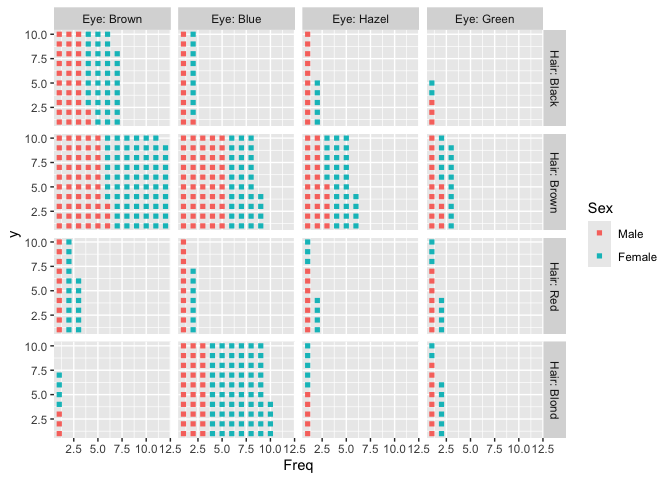
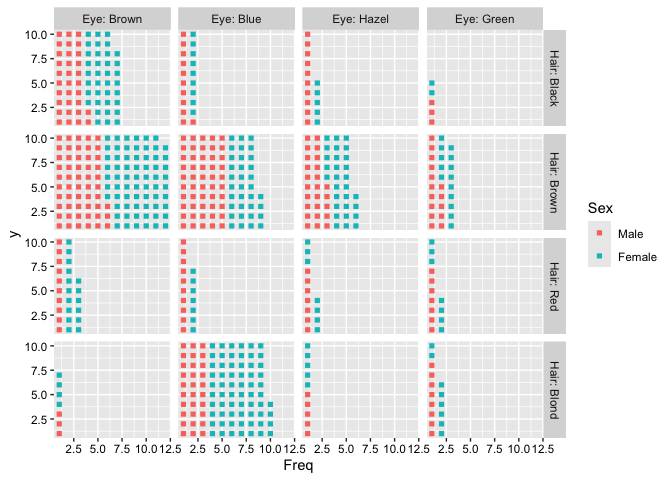
knitr

Changed region(s): [[0.0312, 0.5, 0.0625, 0.5312], [0.0312, 0.2812, 0.0625, 0.3125], [0.0312, 0.0625, 0.0625, 0.0938]]

diff --git a/example/example.md b/example/example.md
@@ -5,6 +5,8 @@ Ko ABE
 
 ## icon array
 
+`stat_countgrid` is used to plot icon array.
+
 ``` r
 library(ggsomestat)
 ```
@@ -15,12 +17,23 @@ library(ggsomestat)
 HEC <- as.data.frame(HairEyeColor)
 ggplot(HEC, aes(x=Freq, colour=Sex))+
   stat_countgrid(shape=15)+
-  facet_grid(Hair~Eye, labeller = label_both)
+  facet_grid(Hair~Eye, labeller = label_both)+
+  ggsomestat:::axis_text_black()
 ```
 
 ![](example_files/figure-gfm/HEC-1.png)<!-- -->
 
+``` r
+ggplot(HEC, aes(x=Freq, fill=Sex))+
+  stat_countgrid(geom="tile", width=0.9, height=0.9)+
+  facet_grid(Hair~Eye, labeller = label_both)
+```
+
+![](example_files/figure-gfm/hectile-1.png)<!-- -->
+
 ## ecdf
+
+`stat_ecdf2`
 
 ``` r
 ggplot(searchConsole, aes(impressions, pagePath)) +
@@ -55,4 +68,35 @@ ggplot(economics, aes(date, unemploy)) +
   stat_ma(colour="royalblue", windowsize=300)
 ```
 
-![](example_files/figure-gfm/ma-1.png)<!-- -->
+![](example_files/figure-gfm/ma-1.png)<!-- --> \## sparkline
+
+draw the parallel line charts
+
+``` r
+ggplot(searchConsole, aes(x = date, y = pagePath, inner_y = clicks)) +
+  stat_sparkline()
+```
+
+    ## Warning: The following aesthetics were dropped during statistical transformation:
+    ## inner_y.
+    ## ℹ This can happen when ggplot fails to infer the correct grouping structure in
+    ##   the data.
+    ## ℹ Did you forget to specify a `group` aesthetic or to convert a numerical
+    ##   variable into a factor?
+
+![](example_files/figure-gfm/sparkline-1.png)<!-- -->
+
+``` r
+ggplot(searchConsole, aes(x = date, y = pagePath, inner_y = clicks)) +
+  stat_sparkline()+
+  axis_text_black()
+```
+
+    ## Warning: The following aesthetics were dropped during statistical transformation:
+    ## inner_y.
+    ## ℹ This can happen when ggplot fails to infer the correct grouping structure in
+    ##   the data.
+    ## ℹ Did you forget to specify a `group` aesthetic or to convert a numerical
+    ##   variable into a factor?
+
+![](example_files/figure-gfm/sparkb-1.png)<!-- -->
